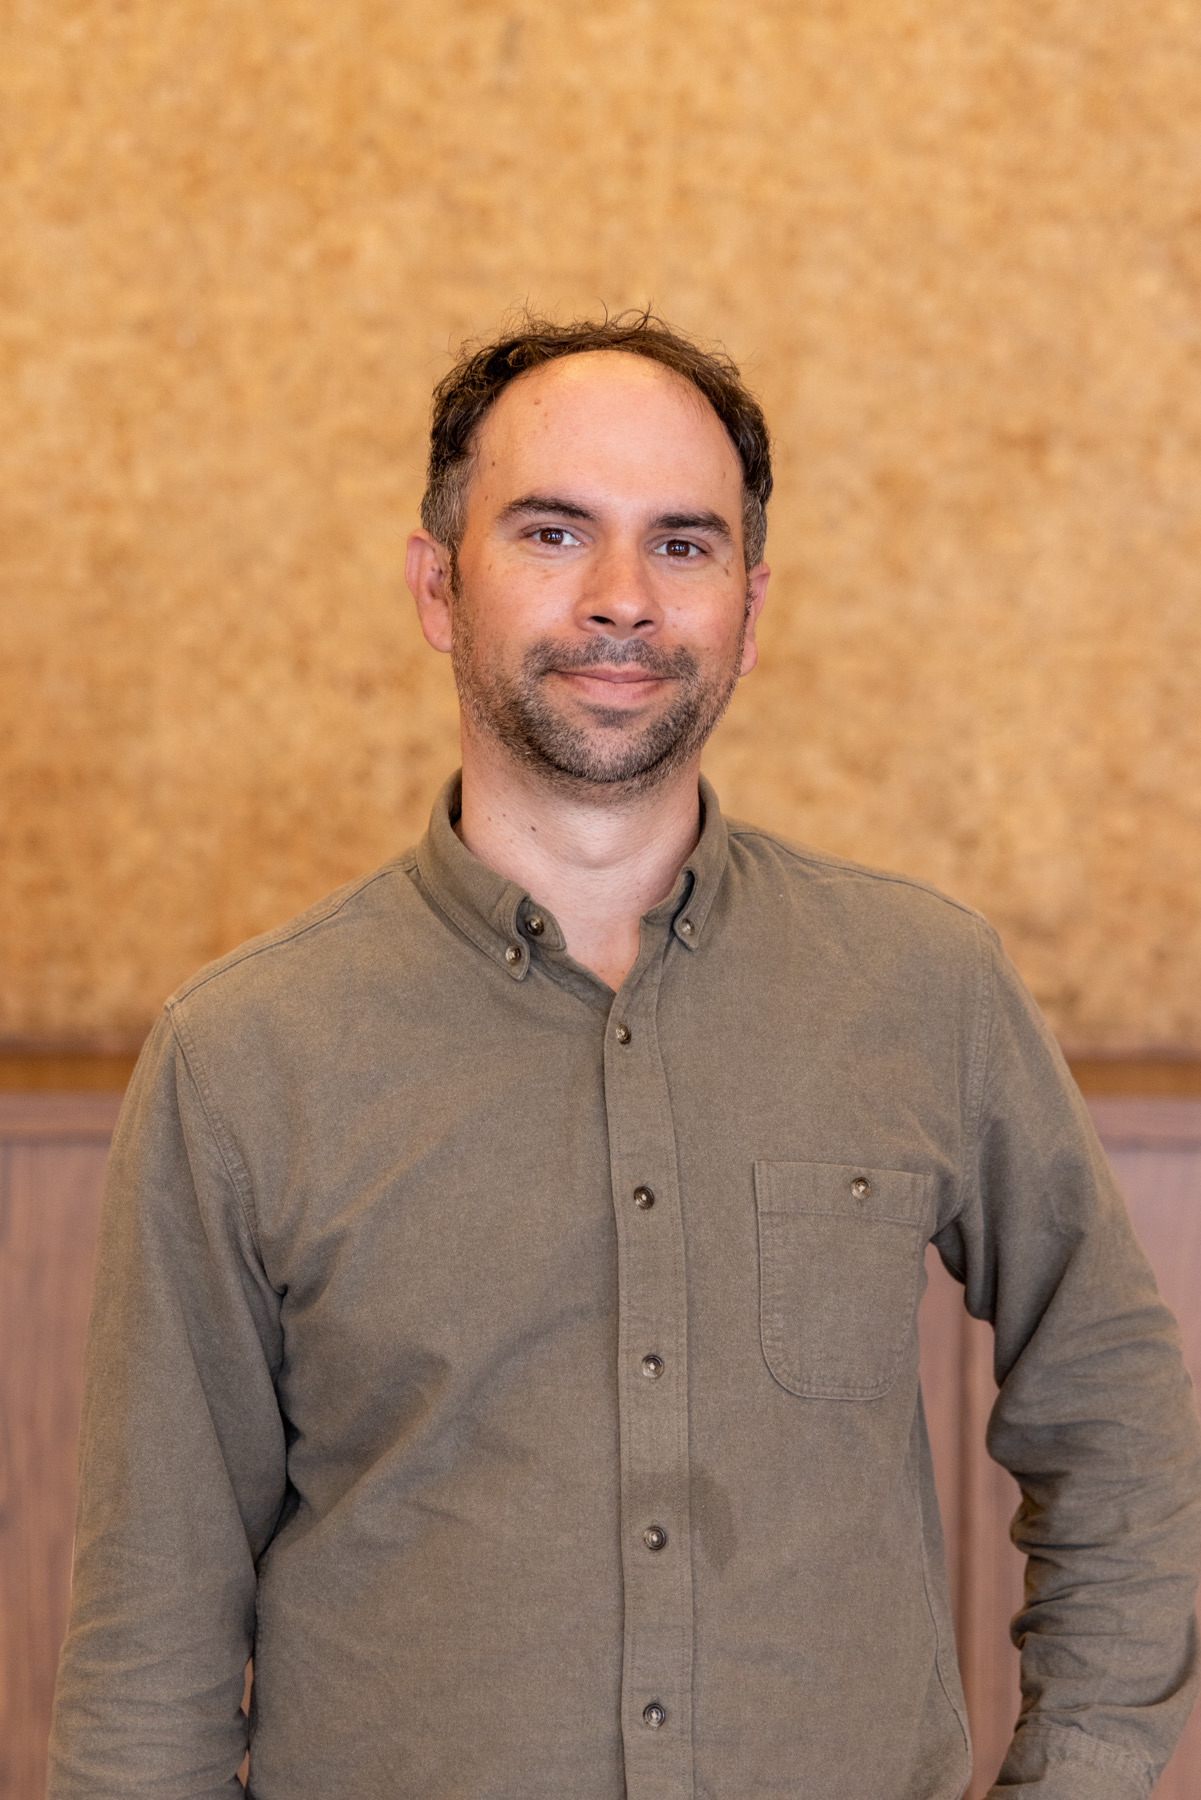
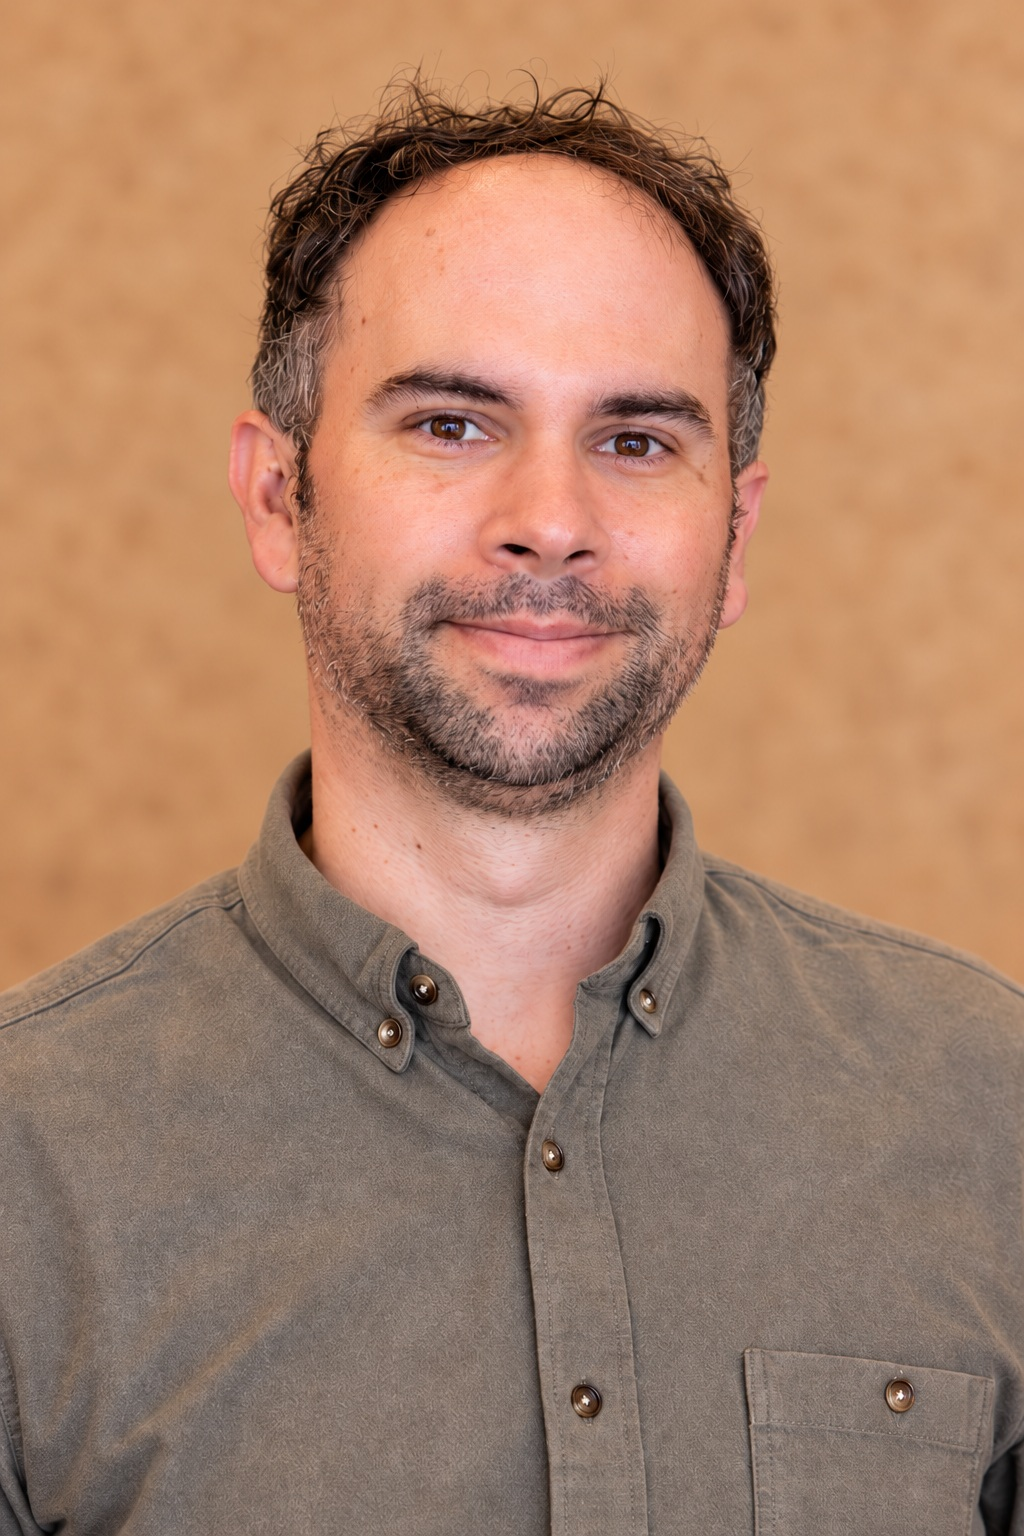
Update portrait with approved tighter crop

diff --git a/gallery.html b/gallery.html
@@ -7,4 +7,4 @@
   gtag('js', new Date());
   gtag('config', 'G-KC0N5XKDE9');
 </script>
-<meta charset="utf-8"><meta name="viewport" content="width=device-width,initial-scale=1"><link rel="stylesheet" href="styles.css?v=20261002-7"><title>Music & Performance Gallery | Peter Bonos</title><meta name="description" content="Photos of Bay Area musician Peter Bonos in performance, with ensembles, and with trumpet, oud and euphonium."><link rel="canonical" href="https://peterbonos.com/gallery.html"></head><body><nav class="site-nav"><div class="wrap nav-inner"><a class="brand" href="index.html">PETER BONOS</a><div class="nav-links"><a href="index.html">Home</a><a href="bio.html">Bio</a><a href="music.html">Music</a><a href="index.html#calendar">Calendar</a><a href="work.html">Work</a><a href="gallery.html" aria-current="page">Gallery</a><a href="contact.html">Contact</a></div></div></nav><header class="hero compact-page-hero" style="min-height:auto"><div class="wrap"><div class="eyebrow">Performance · portrait · instruments</div><h1>Gallery</h1><p class="lede">Performance and ensemble photographs alongside Peter’s primary instruments. Click any thumbnail to open the full-size image.</p></div></header><main><section><div class="wrap"><div class="gallery"><div class="gitem" data-caption="Peter Bonos"><img src="peter-headshot.jpeg" alt="Peter Bonos portrait"></div><div class="gitem" data-caption="Peter Bonos — portrait · Photo: Katherine Fiordalis, 2024"><img src="Peter Bonos Headshot 2.JPG" alt="Peter Bonos portrait"></div><div class="gitem" data-caption="Peter Bonos — Orchestra Euphonos · Photo: Leon Press"><img src="Peter Bonos Euphonos.jpg" alt="Peter Bonos with Orchestra Euphonos"></div><div class="gitem" data-caption="Peter Bonos — trumpet performance · Photo: Leon Press"><img src="Peter Bonos Trumpet.jpg" alt="Peter Bonos playing trumpet"></div><div class="gitem" data-caption="Peter Bonos — trumpet portrait"><img src="Peter Bonos trumpet 2015 headshot colorcorrected.png" alt="Peter Bonos with trumpet"></div><div class="gitem" data-caption="Peter Bonos — Non-Stop Bhangra, 2014 · Photo: Odell Hussey Photography"><img src="Peter Bonos Non-stop bhangra2.png?v=20261004" alt="Peter Bonos performing"></div><div class="gitem" data-caption="Peter Bonos — euphonium performance"><img src="Peter Bonos Euphonium 3-2.png" alt="Peter Bonos playing euphonium"></div><div class="gitem" data-caption="Peter Bonos — euphonium performance · Photo: April Renae, 2012"><img src="Peter Bonos Euphonium-1.jpg" alt="Peter Bonos playing euphonium"></div></div></div></section><section id="instruments" class="instruments-section"><div class="wrap"><div class="instruments-intro"><p>Each instrument opens a different part of the repertoire—from the projecting, vocal quality of trumpet to the intimacy of oud and the warm low brass of euphonium.</p></div><div class="instrument-grid"><article class="instrument big instrument-lightbox-item"><img src="Selmer-Concept-TT trumpet-Bonos.jpg" alt="Peter Bonos trumpet"><div class="instrument-cap"><strong>Trumpet</strong><span>My primary brass instrument—used across klezmer, Balkan, Eastern European and ensemble work for melody, improvisation and a strong singing tone.</span></div></article><article class="instrument small instrument-lightbox-item"><img src="Turkish-Oud-Bonos.jpg" alt="Peter Bonos oud"><div class="instrument-cap"><strong>Oud</strong><span>My primary string instrument, especially central to Turkish, Anatolian and Mediterranean repertoire with Duygu & Friends and related collaborations.</span></div></article><article class="instrument half instrument-lightbox-item"><img src="euphonium.jpeg" alt="Peter Bonos euphonium"><div class="instrument-cap"><strong>Euphonium</strong><span>A warm, resonant low-brass voice that I use in Balkan and Eastern European settings, adding depth beneath the brighter brass and reeds.</span></div></article></div></div></section><section class="intro-band"><div class="wrap intro-statement"><span class="tag">Why these instruments</span><p>I like moving between brass and strings because each asks for a different kind of listening. Trumpet can lead a room; oud can draw it inward. Euphonium lets me shift roles—from melody to support—depending on the ensemble and tradition.</p></div></section></main><div class="lightbox instrument-lightbox" aria-hidden="true"><div class="lb-inner"><button class="lb-close" aria-label="Close">×</button><img class="lb-img" alt=""><div class="lb-caption"></div></div></div><div class="lightbox" aria-hidden="true"><div class="lb-inner"><button class="lb-close" aria-label="Close">×</button><button class="lb-btn lb-prev" aria-label="Previous">‹</button><img class="lb-img" alt=""><button class="lb-btn lb-next" aria-label="Next">›</button><div class="lb-caption"></div></div></div><footer><div class="wrap">Peter Bonos · Gallery & Instruments</div></footer><script src="site.js?v=20261002-3"></script></body></html>
+<meta charset="utf-8"><meta name="viewport" content="width=device-width,initial-scale=1"><link rel="stylesheet" href="styles.css?v=20261002-7"><title>Music & Performance Gallery | Peter Bonos</title><meta name="description" content="Photos of Bay Area musician Peter Bonos in performance, with ensembles, and with trumpet, oud and euphonium."><link rel="canonical" href="https://peterbonos.com/gallery.html"></head><body><nav class="site-nav"><div class="wrap nav-inner"><a class="brand" href="index.html">PETER BONOS</a><div class="nav-links"><a href="index.html">Home</a><a href="bio.html">Bio</a><a href="music.html">Music</a><a href="index.html#calendar">Calendar</a><a href="work.html">Work</a><a href="gallery.html" aria-current="page">Gallery</a><a href="contact.html">Contact</a></div></div></nav><header class="hero compact-page-hero" style="min-height:auto"><div class="wrap"><div class="eyebrow">Performance · portrait · instruments</div><h1>Gallery</h1><p class="lede">Performance and ensemble photographs alongside Peter’s primary instruments. Click any thumbnail to open the full-size image.</p></div></header><main><section><div class="wrap"><div class="gallery"><div class="gitem" data-caption="Peter Bonos"><img src="peter-headshot.jpeg" alt="Peter Bonos portrait"></div><div class="gitem" data-caption="Peter Bonos — portrait · Photo: Katherine Fiordalis, 2024"><img src="Peter Bonos Headshot 2.JPG?v=20261005-crop" alt="Peter Bonos portrait"></div><div class="gitem" data-caption="Peter Bonos — Orchestra Euphonos · Photo: Leon Press"><img src="Peter Bonos Euphonos.jpg" alt="Peter Bonos with Orchestra Euphonos"></div><div class="gitem" data-caption="Peter Bonos — trumpet performance · Photo: Leon Press"><img src="Peter Bonos Trumpet.jpg" alt="Peter Bonos playing trumpet"></div><div class="gitem" data-caption="Peter Bonos — trumpet portrait"><img src="Peter Bonos trumpet 2015 headshot colorcorrected.png" alt="Peter Bonos with trumpet"></div><div class="gitem" data-caption="Peter Bonos — Non-Stop Bhangra, 2014 · Photo: Odell Hussey Photography"><img src="Peter Bonos Non-stop bhangra2.png?v=20261004" alt="Peter Bonos performing"></div><div class="gitem" data-caption="Peter Bonos — euphonium performance"><img src="Peter Bonos Euphonium 3-2.png" alt="Peter Bonos playing euphonium"></div><div class="gitem" data-caption="Peter Bonos — euphonium performance · Photo: April Renae, 2012"><img src="Peter Bonos Euphonium-1.jpg" alt="Peter Bonos playing euphonium"></div></div></div></section><section id="instruments" class="instruments-section"><div class="wrap"><div class="instruments-intro"><p>Each instrument opens a different part of the repertoire—from the projecting, vocal quality of trumpet to the intimacy of oud and the warm low brass of euphonium.</p></div><div class="instrument-grid"><article class="instrument big instrument-lightbox-item"><img src="Selmer-Concept-TT trumpet-Bonos.jpg" alt="Peter Bonos trumpet"><div class="instrument-cap"><strong>Trumpet</strong><span>My primary brass instrument—used across klezmer, Balkan, Eastern European and ensemble work for melody, improvisation and a strong singing tone.</span></div></article><article class="instrument small instrument-lightbox-item"><img src="Turkish-Oud-Bonos.jpg" alt="Peter Bonos oud"><div class="instrument-cap"><strong>Oud</strong><span>My primary string instrument, especially central to Turkish, Anatolian and Mediterranean repertoire with Duygu & Friends and related collaborations.</span></div></article><article class="instrument half instrument-lightbox-item"><img src="euphonium.jpeg" alt="Peter Bonos euphonium"><div class="instrument-cap"><strong>Euphonium</strong><span>A warm, resonant low-brass voice that I use in Balkan and Eastern European settings, adding depth beneath the brighter brass and reeds.</span></div></article></div></div></section><section class="intro-band"><div class="wrap intro-statement"><span class="tag">Why these instruments</span><p>I like moving between brass and strings because each asks for a different kind of listening. Trumpet can lead a room; oud can draw it inward. Euphonium lets me shift roles—from melody to support—depending on the ensemble and tradition.</p></div></section></main><div class="lightbox instrument-lightbox" aria-hidden="true"><div class="lb-inner"><button class="lb-close" aria-label="Close">×</button><img class="lb-img" alt=""><div class="lb-caption"></div></div></div><div class="lightbox" aria-hidden="true"><div class="lb-inner"><button class="lb-close" aria-label="Close">×</button><button class="lb-btn lb-prev" aria-label="Previous">‹</button><img class="lb-img" alt=""><button class="lb-btn lb-next" aria-label="Next">›</button><div class="lb-caption"></div></div></div><footer><div class="wrap">Peter Bonos · Gallery & Instruments</div></footer><script src="site.js?v=20261002-3"></script></body></html>

diff --git a/index.html b/index.html
@@ -12,7 +12,7 @@
 <header class="hero hero-dusk c5-hero"><div class="wrap c5-hero-grid"><div class="c5-copy"><div class="eyebrow">Oakland · San Francisco Bay Area</div><h1>Peter<br>Bonos</h1><p class="hero-role"><strong>Musician · Band Leader</strong><br><strong>Event Producer</strong></p><p class="c5-quote">Music, community, and connection across cultures.</p><div class="buttons"><a class="btn primary" href="music.html">Explore</a><a class="btn glass" href="contact.html">Contact</a></div></div><div class="c5-portrait"><img src="peter-headshot.jpeg" alt="Peter Bonos portrait"></div><div class="c5-stack"><figure><img src="Orchestra Euphonos GAMH.jpg" alt="Orchestra Euphonos performing at Great American Music Hall"></figure><figure><img src="Duygu and Peter.jpeg" onerror="this.onerror=null;this.src='Peter Bonos Euphonos.jpg'" alt="Peter Bonos performing"></figure><figure class="c5-oud"><img src="Turkish-Oud-Bonos.jpg" alt="Peter Bonos's Turkish oud"></figure></div></div><div class="c5-pattern" aria-hidden="true"></div></header>
 <main>
 <section class="intro-band reveal"><div class="wrap intro-statement"><span class="tag">About</span><p>Peter Bonos is a Bay Area musician and bandleader, concert and festival producer, audio engineer, educator and community arts organizer. He leads Orchestra Euphonos, co-founded Duygu & Friends, performs with Fanfare Zambaleta, and produces community music events including the Berkeley Balkan Bacchanal. <a href="bio.html">Read Peter’s biography →</a></p></div></section>
-<section class="reveal c5-explore"><div class="wrap"><div class="section-head editorial-head"><h2>Explore</h2><p>Explore Peter’s music, professional work, and the Berkeley Balkan Bacchanal.</p></div><div class="venue-flow c4-featured"><article class="c4-card c4-rust"><img src="Orchestra Euphonos GAMH.jpg" alt="Orchestra Euphonos performing at Great American Music Hall"><span class="tag">Bands & projects</span><h3>Music</h3><p>Orchestra Euphonos, Duygu & Friends, Fanfare Zambaleta and related collaborations.</p><a class="pill" href="music.html">Music →</a></article><article class="c4-card c4-amber"><img src="Peter Bonos Headshot 2.JPG" alt="Peter Bonos"><span class="tag">Professional</span><h3>Work</h3><p>Performance, sessions, teaching, event production, live audio, community arts, and professional background.</p><a class="pill" href="work.html">Work →</a></article><article class="c4-card c4-teal"><img src="1000083620.jpg" alt="Hot Blood Orkestar and Mila Sestra — October 17 Berkeley Balkan Bacchanal"><span class="tag">Concert series · Berkeley</span><h3>Berkeley Balkan Bacchanal</h3><p>Peter produces the Berkeley Balkan Bacchanal, a recurring Balkan music series at The Starry Plough featuring Bay Area and visiting artists.</p><a class="pill" href="https://berkeleybalkanbacchanal.com/" target="_blank" rel="noopener">Visit Berkeley Balkan Bacchanal ↗</a></article></div></div></section>
+<section class="reveal c5-explore"><div class="wrap"><div class="section-head editorial-head"><h2>Explore</h2><p>Explore Peter’s music, professional work, and the Berkeley Balkan Bacchanal.</p></div><div class="venue-flow c4-featured"><article class="c4-card c4-rust"><img src="Orchestra Euphonos GAMH.jpg" alt="Orchestra Euphonos performing at Great American Music Hall"><span class="tag">Bands & projects</span><h3>Music</h3><p>Orchestra Euphonos, Duygu & Friends, Fanfare Zambaleta and related collaborations.</p><a class="pill" href="music.html">Music →</a></article><article class="c4-card c4-amber"><img src="Peter Bonos Headshot 2.JPG?v=20261005-crop" alt="Peter Bonos"><span class="tag">Professional</span><h3>Work</h3><p>Performance, sessions, teaching, event production, live audio, community arts, and professional background.</p><a class="pill" href="work.html">Work →</a></article><article class="c4-card c4-teal"><img src="1000083620.jpg" alt="Hot Blood Orkestar and Mila Sestra — October 17 Berkeley Balkan Bacchanal"><span class="tag">Concert series · Berkeley</span><h3>Berkeley Balkan Bacchanal</h3><p>Peter produces the Berkeley Balkan Bacchanal, a recurring Balkan music series at The Starry Plough featuring Bay Area and visiting artists.</p><a class="pill" href="https://berkeleybalkanbacchanal.com/" target="_blank" rel="noopener">Visit Berkeley Balkan Bacchanal ↗</a></article></div></div></section>
 <section id="calendar" class="performance-calendar reveal"><div class="wrap"><div class="section-head editorial-head"><h2>Performance Calendar</h2><p>Upcoming performances, concerts and community music events. Check back for newly announced dates.</p></div><div class="calendar-list" data-performance-list="upcoming">
 
 
